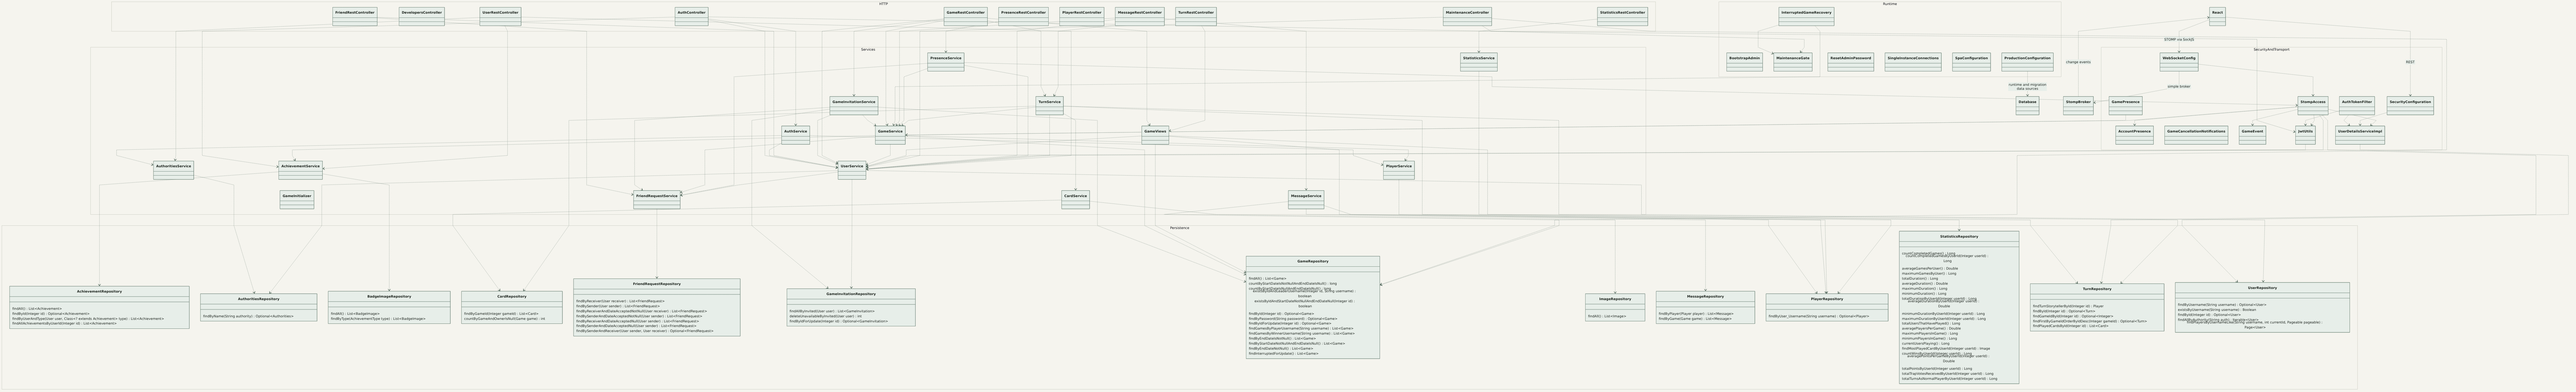
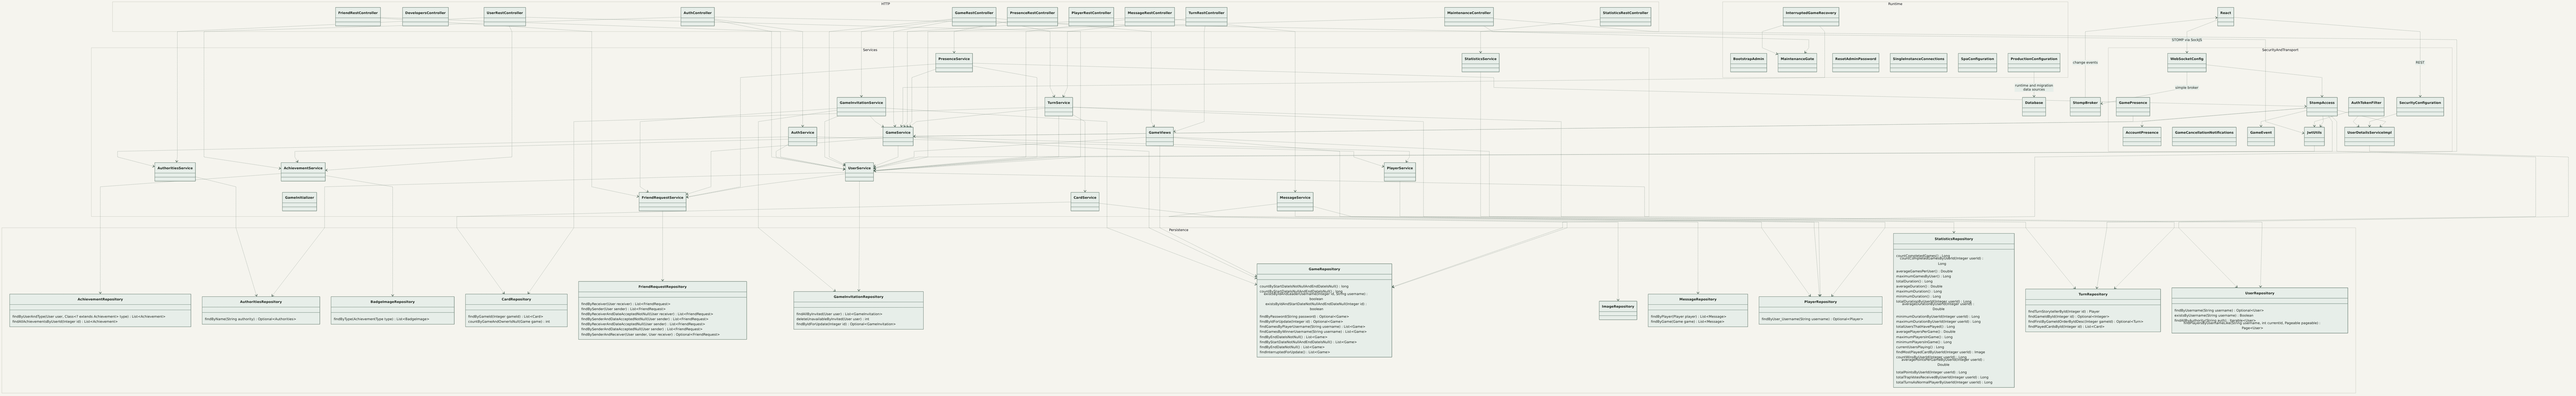
docs: remove duplicated UML fields and labels

diff --git a/docs/architecture.md b/docs/architecture.md
@@ -46,4 +46,4 @@ Local development uses disposable H2. The demo uses PostgreSQL 17, Flyway V1–V
 | [Classes](diagrams/class-diagram.png) | Entities, fields, inheritance, enums, associations and multiplicities | [Mermaid](diagrams/class-diagram.mmd) |
 | [Domain](diagrams/domain-diagram.png) | How gameplay, cards, chat, accounts and invitations fit together | [Mermaid](diagrams/domain-diagram.mmd) |
 
-Open the PNGs at full size to read the member lists and dependencies. The class diagram includes the persistence model and its inherited fields. The domain diagram focuses on the business relationships, with ADMIN represented by an account authority and invitations linked by a stored game ID. Class fields describe server-side entities. REST response fields follow the projections documented above.
+Open the PNGs at full size to read the member lists and dependencies. The class diagram shows scalar fields and inheritance. Associations show references and collections directly on the connecting lines. The domain diagram focuses on the business relationships, with ADMIN represented by an account authority and invitations linked by a stored game ID. Class fields describe server-side entities. REST response fields follow the projections documented above.
